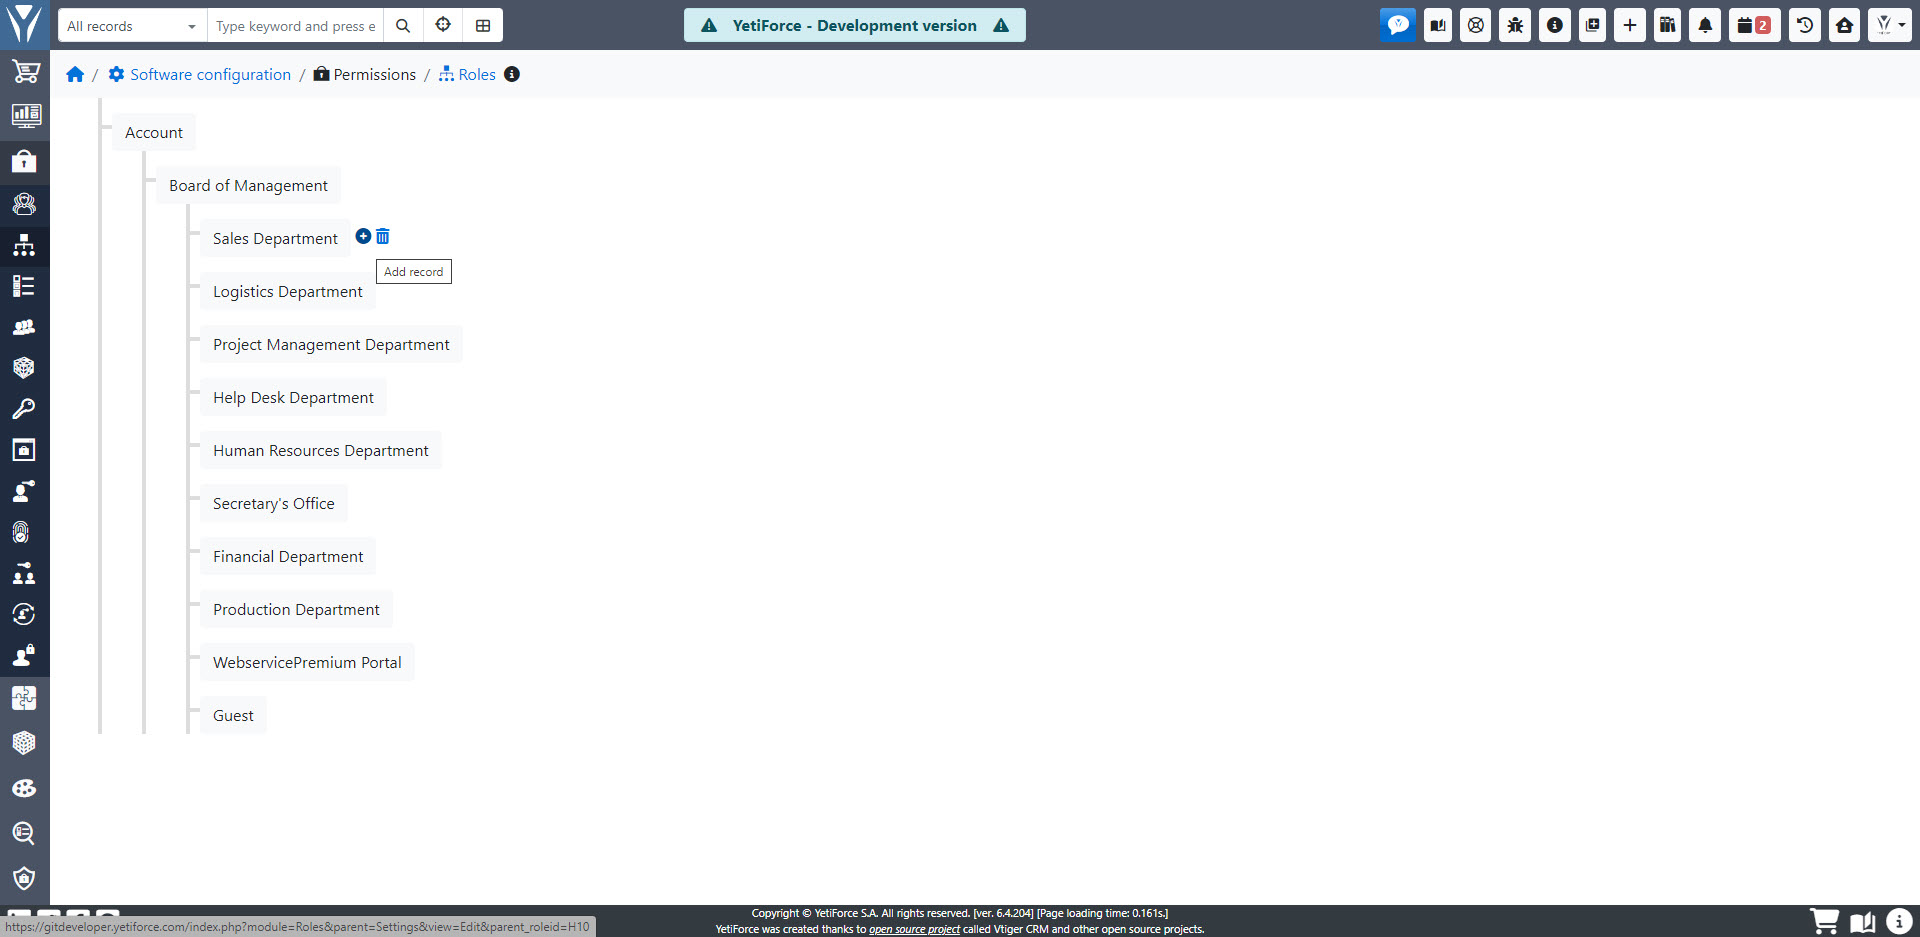
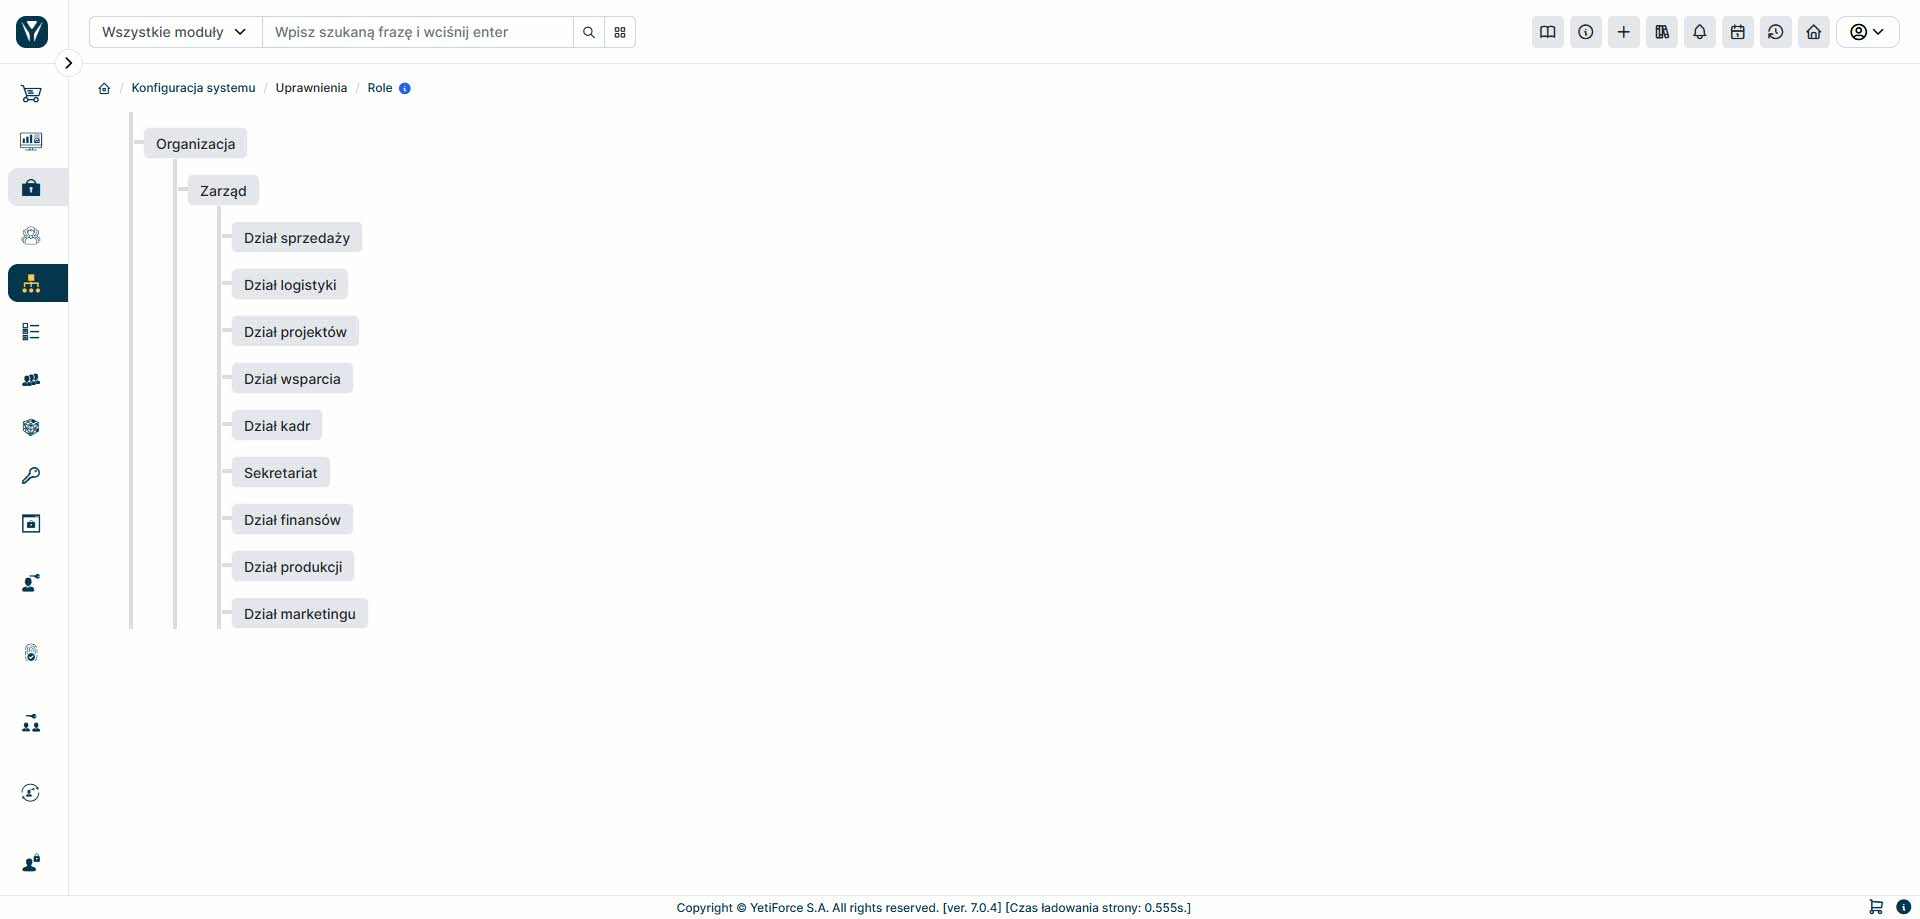
feat: admin ermissions

Changed region(s): [[0.0, 0.0, 1.0, 1.0]]

diff --git a/docs/3-administrator-guides/05-permissions/02-roles/README.md b/docs/3-administrator-guides/05-permissions/02-roles/README.md
@@ -1,6 +1,6 @@
 ---
-title: Role - Struktura organizacyjna firmy
-description: W systemie istnieje wbudowany moduł Ról, umożliwiający mapowanie struktury organizacyjnej firmy.
+title: Role
+description: W systemie istnieje wbudowany moduł ról, umożliwiający mapowanie struktury organizacyjnej firmy.
 keywords:
   - firma
   - organizacyjna
@@ -11,10 +11,59 @@ keywords:
 tags:
   - role
   - struktura
+preview: role-1.jpg
 ---
 
 W systemie istnieje wbudowany moduł Ról, umożliwiający mapowanie struktury organizacyjnej firmy. Mechanizm ten może odzwierciedlać nawet najbardziej złożoną strukturę. Aby skonfigurować ten moduł, musisz przejść do "Konfiguracja systemu" i wybrać "Uprawnienia" i "Role".
 
 Zacznijmy od przykładu organizacji, gdzie na samej górze mamy prezesa, pod nim dyrektora, pod nim trzech kierowników i każdy ma po jednym pracowniku. Jest to prosty przykład struktury, ale w systemie YetiForce nie ma ograniczeń jeśli chodzi o ilość poziomów, które można dodać.
 
+## Drzewo ról
+
 ![role-1.jpg](role-1.jpg)
+
+Moduł `Role` jest modułem łączącym z jednej strony użytkowników, a z drugiej profile, z których użytkownik dziedziczy uprawnienia do modułów, narzędzi i akcji.
+
+## Dodawanie roli
+
+![role-add.jpg](role-add.jpg)
+
+Tworzenie roli daje ogromne możliwości na definiowanie uprawnień dla użytkowników, którzy zostali przypisani bezpośrednio do tej roli. Do najważniejszych możliwości modułu można zaliczyć:
+
+1. Określenie uprawnień do przypisywania użytkowników/grup dla pola 'właściciel rekordu' - uprawnienie działa globalnie.
+2. Określenie uprawnień do przypisywania użytkowników/grup dla pola 'osoby współdzielące' - uprawnienie działa globalnie.
+3. Przypisanie do profilu lub profili (w przypadku przydzielenie do wielu profili, system sumuje uprawnienia).
+4. Blokada zmiany właściciela rekordu (wówczas przy każdym tworzeniu rekordu to on jest jego właścicielem bez możliwości zmiany - pole jest nieaktywne).
+
+Dla uprawnień opisanych w punktach 1. i 2., system pozwala na ustawienie następujących mechanizmów:
+
+- Tylko ja - użytkownik, który jest zalogowany
+- Użytkownicy posiadający podrzędną rolę
+- Użytkownicy posiadający podrzędną rolę lub tą samą rolę co ja
+- Wszyscy użytkownicy
+- Z panelu przydziału rekordów
+
+W praktyce oznacza to, że gdy w punktach 1. i 2. zostanie ustawiona któraś z powyższych wartości, będzie można uzyskać dostęp do różnej listy użytkowników/grup jakie można przydzielać, tworząc rekord. Ostatnia opcja (z panelu) pozwala na dowolną inną konfigurację, którą można określić w niezależnym panelu opisanym również w tej dokumentacji.
+
+Następnie w roli można określić dodatkowe parametry decydujące o 'dziedziczeniu uprawnień':
+
+1. Czy udostępnić listę do rekordów powiązanych z rekordem do którego mamy dostęp?
+2. Czy udostępnić podgląd do rekordów powiązanych z rekordem do którego mamy dostęp?
+3. Uprawnienia do rekordów powiązanych bazują na:
+   1. Właściciel rekordu
+   2. Osoby współdzielące
+   3. Dostęp do rekordu
+   4. Wyjątki zasad dostępu
+
+Parametry te, pozwalają na włączenie zależności dostępu do danych w zależności od hierarchii powiązania modułów, np. jeżeli mamy dostęp do klienta, to możemy mieć również dostęp do wszystkich rekordów powiązanych, np. kalendarz, dokumenty, komentarze, faktury nawet jeżeli użytkownik nie ma do nich bezpośrednio dostępu.
+
+Dodatkowo jeżeli zostanie włączona opcja: 'Czy włączyć edycję do rekordów powiązanych - z naszym rekordem - których nie jesteśmy właścicielem?' wówczas system pozwoli nam na edycję rekordów, nawet jeżeli normalnie nie mielibyśmy do tego dostępu. Należy pamiętać, że dostęp mamy tylko wówczas, gdy system 'wie' z jakiego rekordu 'otrzymaliśmy' te uprawnienia.
+
+Na roli możemy określić poziom do wyszukiwarki oraz do danych jakie możemy wyszukiwać, możemy to ustawić za pomocą narzędzi:
+
+- Moduły w których można wyszukiwać bez uprawnień
+- Czy włączyć możliwość zaawansowanego wyszukiwania?
+
+W systemie można wyłączyć również możliwość podglądu innych kalendarzy (z poziomu graficznego interfejsu - 'Czy może przeglądać graficzny kalendarz innych użytkowników?').
+
+Opcja 'Automatyczny przydział rekordów' pozwala na wykorzystanie panelu do automatycznego rozdzielania rekordów w systemie. Opcja ta jest szczególnie przydatna dla firm, które automatycznie ładują do systemu duże bazy leadów i szans sprzedażowych.

diff --git a/docs/3-administrator-guides/05-permissions/01-users/README.md b/docs/3-administrator-guides/05-permissions/01-users/README.md
@@ -1,10 +1,40 @@
 ---
-title: Users
-description: Users
+title: Użytkownicy
+description: Moduł pozwala na wprowadzanie użytkowników (standardowych oraz administracyjnych) do systemu. Dzięki temu można decydować, kto ma dostęp i na jakim poziomie.
 keywords:
-  - Users
+  - Użytkownicy
   - Panel konfiguracyjny
   - YetiForce
 tags:
-  - Users
+  - Użytkownicy
+preview: user_list.jpg
 ---
+
+Moduł `Użytkownicy` pozwala na wprowadzanie użytkowników (standardowych oraz administracyjnych) do systemu. Dzięki temu można decydować, kto ma dostęp i na jakim poziomie.
+
+## Lista użytkowników
+
+![user_list.jpg][user_list.jpg]
+
+Bezpośrednio na liście użytkowników jest dostęp do takich narzędzi jak:
+
+1. Masowa edycja - pozwala wprowadzać zmiany na wielu użytkownikach jednocześnie.
+2. Masowe resetowanie hasła - przydatne, gdy trzeba zmienić hasło dostępu dla wielu użytkowników jednocześnie.
+3. Import i eksport użytkowników pozwala na łatwe przenoszenie użytkowników pomiędzy różnymi systemami bazowymi.
+4. Dodawanie użytkownika - pozwala na ręczne dodanie użytkownika w systemie.
+
+## Dodawanie użytkownika
+
+![user_add.jpg][user_add.jpg]
+
+Dodając użytkownika do systemu, należy wypełnić wszystkie pola wymagane przez system (oznaczone gwiazdką) oraz prawidłowo skonfigurować takie informacje, jak waluta, strefa czasowa, formatowanie liczb, język itd.
+
+Od strony uprawnień, najważniejszym polem jest `Rola`, ponieważ będzie ono definiowało zakres uprawnień i zakres dostępu do danych w całym systemie. Jednocześnie należy pamiętać, że żaden użytkownik nie powinien pracować na użytkowniku `administrator`, ponieważ uprawnienia administracyjne służą tylko do zmian administracyjnych w systemie.
+
+System ma wbudowany mechanizm, który wymusza co określony czas zmianę hasła na nowe. Dodatkowo system posiada wsparcie dla 2FA.
+
+## Import użytkowników
+
+![user_import.jpg][user_import.jpg]
+
+System umożliwia import użytkowników. Warto mieć na uwadze, że format danych powinien być zgodny z formatem danych przy eksporcie użytkowników.

diff --git a/docs/3-administrator-guides/05-permissions/08-record-allocation-owner/README.md b/docs/3-administrator-guides/05-permissions/08-record-allocation-owner/README.md
@@ -1,0 +1,17 @@
+---
+title: Przydział osób współdzielących
+description: Ten panel działa tak samo jak w przypadku modułu 'Przydział właściciela rekordu', ale dotyczy on drugiego pola od uprawnień, czyli pola osób współdzielących.
+tags:
+  - uprawnienia
+  - przydział
+  - współdzielących
+keywords:
+  - uprawnienia
+  - przydział
+  - współdzielenie
+preview: list.jpg
+---
+
+![list.jpg](list.jpg)
+
+Jest to narzędzie, które pozwala na przeglądanie danych na liście rekordów, nie na podstawie tylko tego do kogo dane są przypisane, ale również na podstawie uprawnień wynikających z dziedziczenia. Moduł ten domyślnie działa wolno dla dużych systemów mających duże bazy danych i dużą ilość użytkowników. Dodatkowo mechanizm działa z pewnym opóźnieniem (czas oczekiwania zależy od konfiguracji CRON-a).

diff --git a/docs/3-administrator-guides/05-permissions/07-locks/README.md b/docs/3-administrator-guides/05-permissions/07-locks/README.md
@@ -1,0 +1,24 @@
+---
+title: Blokady
+description: Narzędzie pozwala ograniczać użytkownikom kopiowanie i wklejanie danych z i do systemu.
+tags:
+  - uprawnienia
+  - blokady
+keywords:
+  - uprawnienia
+  - blokady
+preview: list.jpg
+---
+
+![list.jpg](list.jpg)
+
+Narzędzie pozwala ograniczać użytkownikom kopiowanie i wklejanie danych z i do systemu. Do podstawowych możliwości narzędzia możemy zaliczyć:
+
+- Blokadę wycinania
+- Blokadę kopiowania
+- Blokadę wklejania
+- Blokadę prawego klawisza myszki
+- Blokadę zaznaczenia
+- Blokadę przeciągania elementów strony
+
+Należy pamiętać, że ograniczenia te są nakładane na warstwie przeglądarki, a więc jeżeli ktoś użyje przeglądarki, która nie wspiera tego typu zabezpieczeń, to nie będą one działać.

diff --git a/docs/3-administrator-guides/05-permissions/05-sharing-access/README.md b/docs/3-administrator-guides/05-permissions/05-sharing-access/README.md
@@ -1,0 +1,16 @@
+---
+title: Dostęp do modułów
+description: Jednym z ważniejszych modułów zarządzających uprawnieniami, ponieważ określa on dostęp do rekordów, które nie należą do nas.
+tags:
+  - uprawnienia
+  - dostęp do modułów
+keywords:
+  - uprawnienia
+  - dostęp
+  - modułów
+preview: list.jpg
+---
+
+![list.jpg](list.jpg)
+
+Jednym z ważniejszych modułów zarządzających uprawnieniami jest 'Dostęp do modułów', ponieważ określa on dostęp do rekordów, które nie należą do nas. Dodatkowo przy modułach można tworzyć wyjątki, które pozwalają nam na przegląd i edycję danych, które nie należą do nas.

diff --git a/docs/3-administrator-guides/05-permissions/10-record-allocation-shared/README.md b/docs/3-administrator-guides/05-permissions/10-record-allocation-shared/README.md
@@ -1,0 +1,17 @@
+---
+title: Przydział właściciela rekordu
+description: Narzędzie to pozwala na określenie użytkowników/grup, jakie będą dostępne dla użytkownika przy tworzeniu rekordu w określonym module.
+tags:
+  - uprawnienia
+  - przydział
+  - właściciela
+keywords:
+  - uprawnienia
+  - przydział
+  - właściciel
+preview: list.jpg
+---
+
+![list.jpg](list.jpg)
+
+Narzędzie to pozwala na określenie użytkowników/grup, jakie będą dostępne dla użytkownika przy tworzeniu rekordu w określonym module. Jeżeli dostępne opcje na roli przestają być wystarczające, wówczas z pomocą przychodzi to narzędzie.

diff --git a/docs/3-administrator-guides/05-permissions/06-global-permission/README.md b/docs/3-administrator-guides/05-permissions/06-global-permission/README.md
@@ -1,0 +1,15 @@
+---
+title: Dostęp specjalny
+description: W tym module tworzone są specjalne uprawnienia, które przydziela się dla profili.
+tags:
+  - uprawnienia
+  - dostęp specjalny
+keywords:
+  - uprawnienia
+  - dostęp
+  - specjalny
+preview: list.jpg
+---
+
+![list.jpg](list.jpg)
+W tym module tworzone są specjalne uprawnienia, które przydziela się dla profili. Uprawnienia te pozwalają na podgląd i edycję do wszystkich rekordów niezależnie od innych uprawnień. Jeżeli użytkownik ma dostęp do modułu, to będzie miał dostęp do wszystkich rekordów w nim.

diff --git a/docs/3-administrator-guides/05-permissions/03-profiles/README.md b/docs/3-administrator-guides/05-permissions/03-profiles/README.md
@@ -10,7 +10,7 @@ keywords:
 preview: profiles-01.jpg
 ---
 
-Profile pozwalają zdefiniować uprawnienia do wielu funkcji i widoków dostępnych w systemie.
+Profile pozwalają na określenie uprawnień do przeglądania, tworzenia, edycji, usuwania rekordów, w modułach, do których użytkownik ma dostęp. Dodatkowo w każdym module można określić listę pól, do których użytkownik ma uprawnienia (podgląd, edycja) oraz narzędzia, z jakich może korzystać.
 
 ![profiles-01.jpg](profiles-01.jpg)
 

diff --git a/docs/3-administrator-guides/05-permissions/04-groups/README.md b/docs/3-administrator-guides/05-permissions/04-groups/README.md
@@ -1,0 +1,20 @@
+---
+title: Grupy
+description: Grupy służą do określania uprawnień do rekordu (za pomocą pól właściciel rekordu i osoby współdzielące).
+tags:
+  - uprawnienia
+  - grupy
+keywords:
+  - uprawnienia
+  - grupy
+preview: edit.jpg
+---
+
+![edit.jpg](edit.jpg)
+
+Grupy służą do określania uprawnień do rekordu (za pomocą pól właściciel rekordu i osoby współdzielące). Do grup możemy dodawać:
+
+- Użytkowników
+- Inne grupy
+- Role
+- Role i podrole
